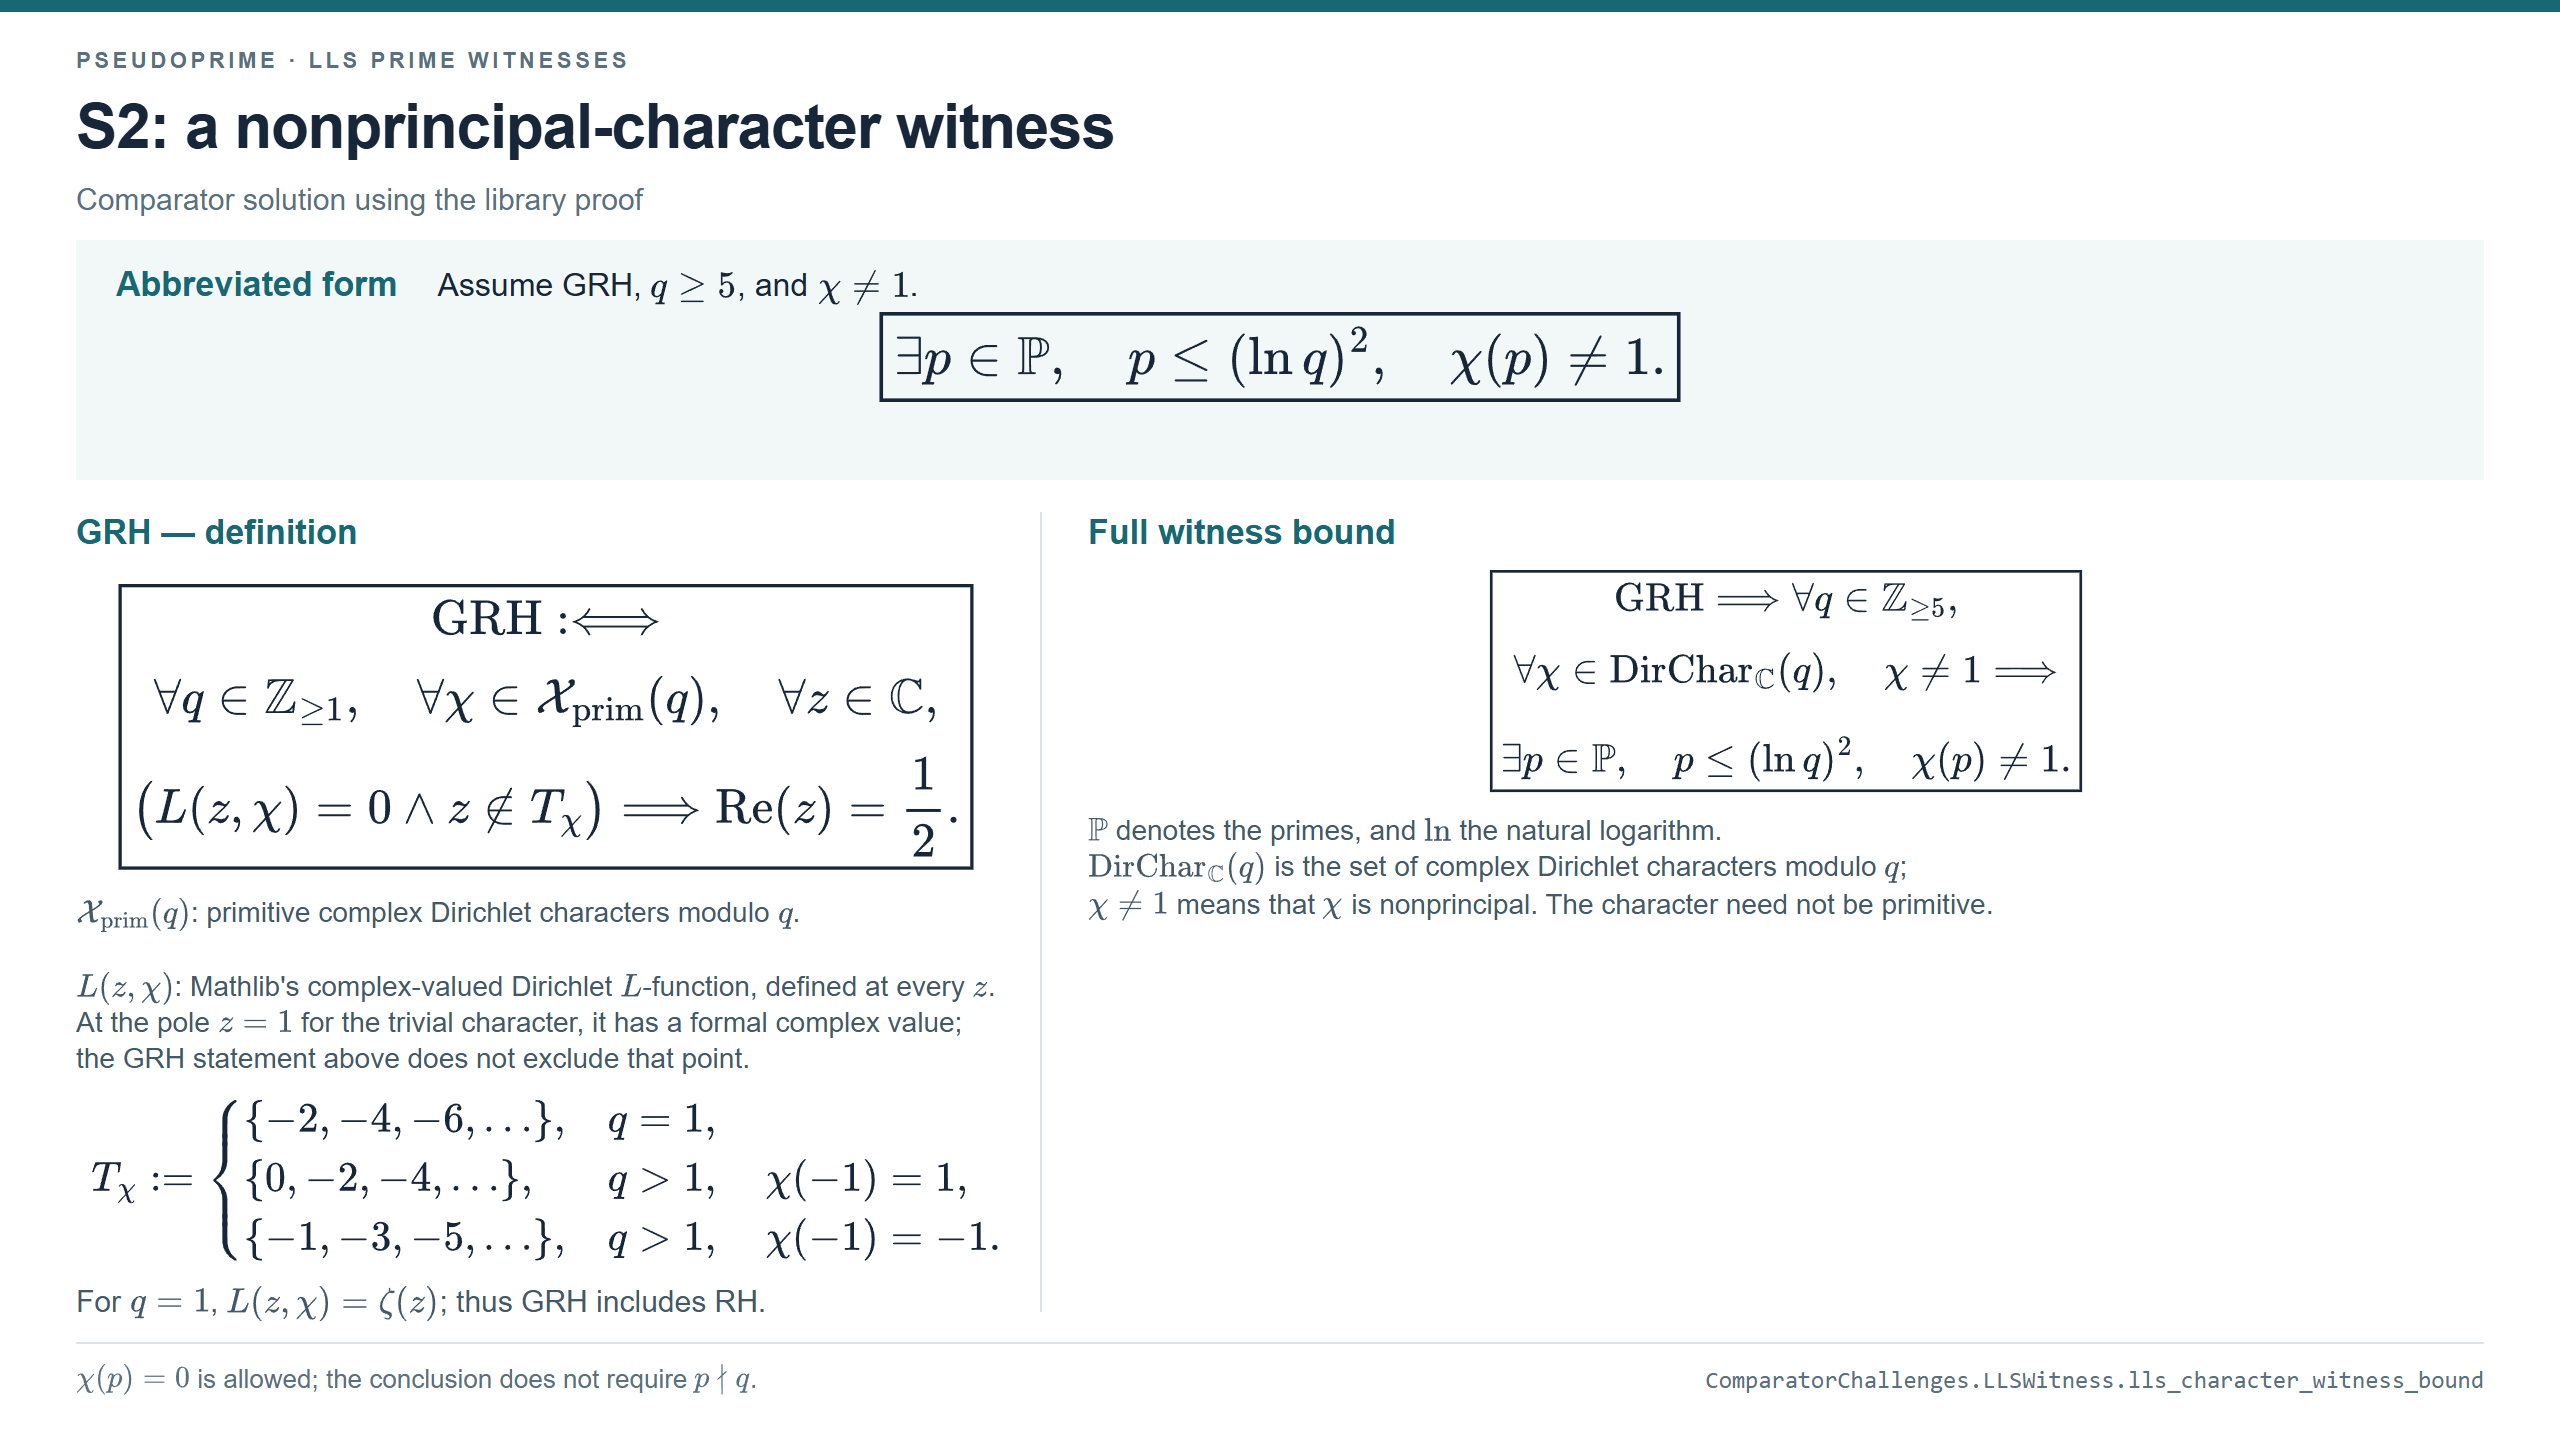
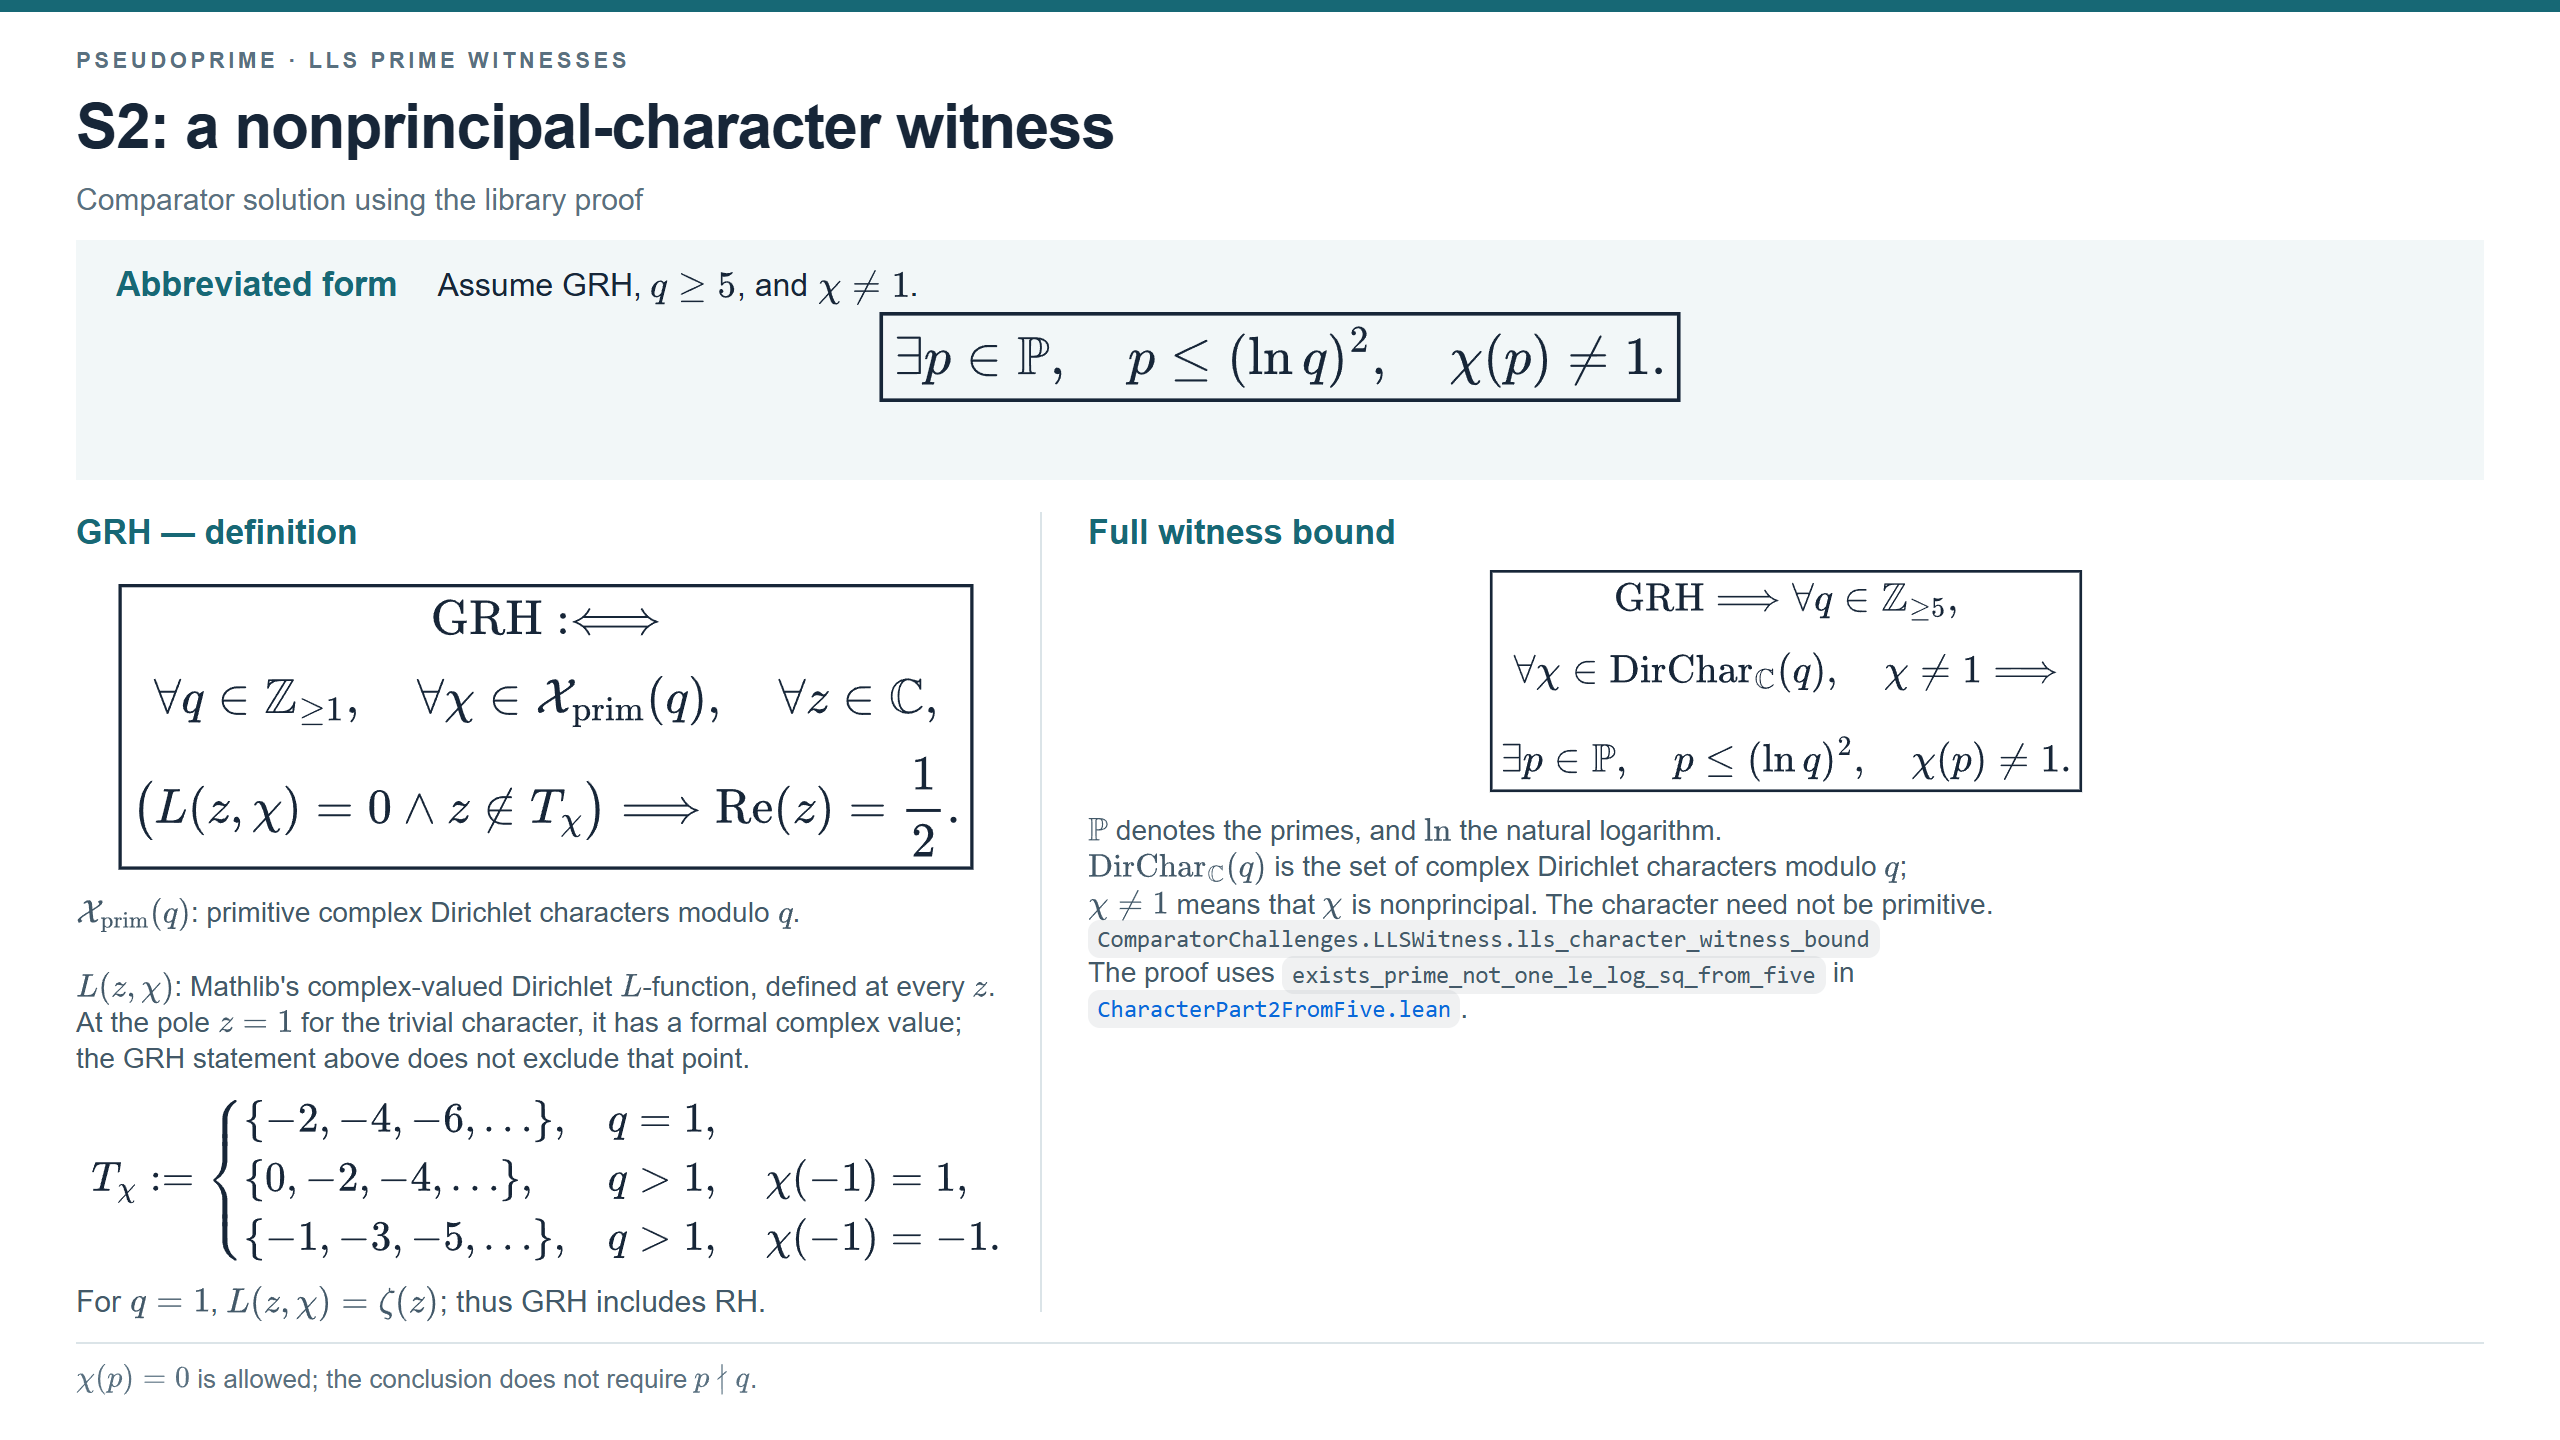
Update witness criterion slides

Changed region(s): [[0.4375, 0.625, 0.7188, 0.7188], [0.6562, 0.9375, 0.9688, 0.9688]]

diff --git a/ComparatorChallenges/LLSWitness/LLSWitnessCriterion.md b/ComparatorChallenges/LLSWitness/LLSWitnessCriterion.md
@@ -52,6 +52,7 @@ style: |
     font-size: 13px; color: #597080;
   }
   .foot code { font-size: 12px; background: none; padding: 0; color: #597080; }
+  .proof-note { font-size: 14px; color: #435969; }
 ---
 
 <div class="topline"></div>
@@ -159,13 +160,21 @@ $H < (\mathbb Z/q\mathbb Z)^\times$ means that $H$ is a proper subgroup.
 The abbreviated bound uses $B(q)$ defined above.
 
 </div>
+
+<div class="proof-note">
+
+`ComparatorChallenges.LLSWitness.lls_subgroup_witness_bound`
+
+The proof uses `llsTheorem11S1_from_three_of_grh` in
+[`Part1FromThree.lean`](../../PseudoPrime/LLS/Part1FromThree.lean).
+
+</div>
+
 </div>
 
 <div class="foot">
 
 $\omega(q)$ counts distinct prime factors; $[p]_q$ is the unit residue of $p$ because $p\nmid q$.
-
-`ComparatorChallenges.LLSWitness.lls_subgroup_witness_bound`
 
 </div>
 
@@ -272,12 +281,20 @@ $\mathrm{DirChar}_{\mathbb C}(q)$ is the set of complex Dirichlet characters mod
 $\chi \ne 1$ means that $\chi$ is nonprincipal. The character need not be primitive.
 
 </div>
+
+<div class="proof-note">
+
+`ComparatorChallenges.LLSWitness.lls_character_witness_bound`
+
+The proof uses `exists_prime_not_one_le_log_sq_from_five` in
+[`CharacterPart2FromFive.lean`](../../PseudoPrime/LLS/CharacterPart2FromFive.lean).
+
+</div>
+
 </div>
 
 <div class="foot">
 
 $\chi(p)=0$ is allowed; the conclusion does not require $p\nmid q$.
-
-`ComparatorChallenges.LLSWitness.lls_character_witness_bound`
 
 </div>

diff --git a/ComparatorChallenges/PrimeMillerRabinWitness/PrimeMillerRabinWitnessCriterion.md b/ComparatorChallenges/PrimeMillerRabinWitness/PrimeMillerRabinWitnessCriterion.md
@@ -45,6 +45,7 @@ style: |
   .modulus-one { margin-top: 12px; font-size: 15px; color: #435969; }
   .full-math { margin-top: 15px; font-size: 21px; }
   .decomp-note { margin-top: 14px; font-size: 14px; line-height: 1.3; color: #435969; }
+  .proof-note { font-size: 14px; color: #435969; }
   .foot {
     position: absolute; left: 38px; right: 38px; bottom: 22px;
     padding-top: 10px; border-top: 1px solid #dbe4e8;
@@ -169,9 +170,14 @@ $n-1=2^s d$ and $d$ odd. The theorem shown above uses `Nat.maxPowDvdDiv` instead
 
 </div>
 
+<div class="proof-note">
+
 `ComparatorChallenges.PrimeMillerRabinWitness.prime_millerRabin_log_nine_criterion`
 
-proof from `Target028GlobalBridge.lean`
+The proof uses `prime_millerRabin_log_nine_criterion` in
+[`Target028GlobalBridge.lean`](../../PseudoPrime/PrimeTestBounds/MillerRabin/Target028GlobalBridge.lean).
+
+</div>
 
 </div>
 
@@ -298,11 +304,15 @@ $n-1=2^s d$ and $d$ odd. The theorem shown above uses `Nat.maxPowDvdDiv` instead
 
 </div>
 
+<div class="proof-note">
+
 `ComparatorChallenges.PrimeMillerRabinWitness.prime_millerRabin_028_criterion`
 
 The proof uses `prime_millerRabin_028_criterion` in
 [`Target028GlobalBridge.lean`](../../PseudoPrime/PrimeTestBounds/MillerRabin/Target028GlobalBridge.lean),
 which connects the verified logarithmic-scale witness to the global cutoff.
+
+</div>
 
 </div>
 

diff --git a/ComparatorChallenges/PrimeQuadraticWitness/PrimeQuadraticWitnessCriterion.md b/ComparatorChallenges/PrimeQuadraticWitness/PrimeQuadraticWitnessCriterion.md
@@ -51,6 +51,7 @@ style: |
     font-size: 13px; color: #597080;
   }
   .foot code { font-size: 12px; background: none; padding: 0; color: #597080; }
+  .proof-note { font-size: 14px; color: #435969; }
 ---
 
 <div class="topline"></div>
@@ -149,13 +150,21 @@ p \le \max\lbrace 5,(\ln n)^2\rbrace,\\[5pt]
 $$
 
 </div>
+
+<div class="proof-note">
+
+`ComparatorChallenges.PrimeQuadraticWitness.prime_ne_one_witness_bound`
+
+The proof uses `exists_ne_one_witness_of_odd` in
+[`PointwiseWitness.lean`](../../PseudoPrime/PseudoSquare/Bounds/PointwiseWitness.lean).
+
+</div>
+
 </div>
 
 <div class="foot">
 
 $\mathbb P$: primes. $\ln$: natural logarithm. The symbol denotes the Jacobi symbol.
-
-`ComparatorChallenges.PrimeQuadraticWitness.prime_ne_one_witness_bound`
 
 </div>
 
@@ -257,12 +266,20 @@ p \le \left(\ln(4n)+\frac{24}{5}\ln\ln(4n)+2\right)^2,\\[5pt]
 $$
 
 </div>
+
+<div class="proof-note">
+
+`ComparatorChallenges.PrimeQuadraticWitness.prime_neg_one_witness_bound`
+
+The proof uses `exists_neg_one_witness_of_odd` in
+[`RefinedElementaryBounds.lean`](../../PseudoPrime/PseudoSquare/Bounds/RefinedElementaryBounds.lean).
+
+</div>
+
 </div>
 
 <div class="foot">
 
 $\mathbb P$: primes. $\ln$: natural logarithm. The symbol denotes the Jacobi symbol.
-
-`ComparatorChallenges.PrimeQuadraticWitness.prime_neg_one_witness_bound`
 
 </div>
